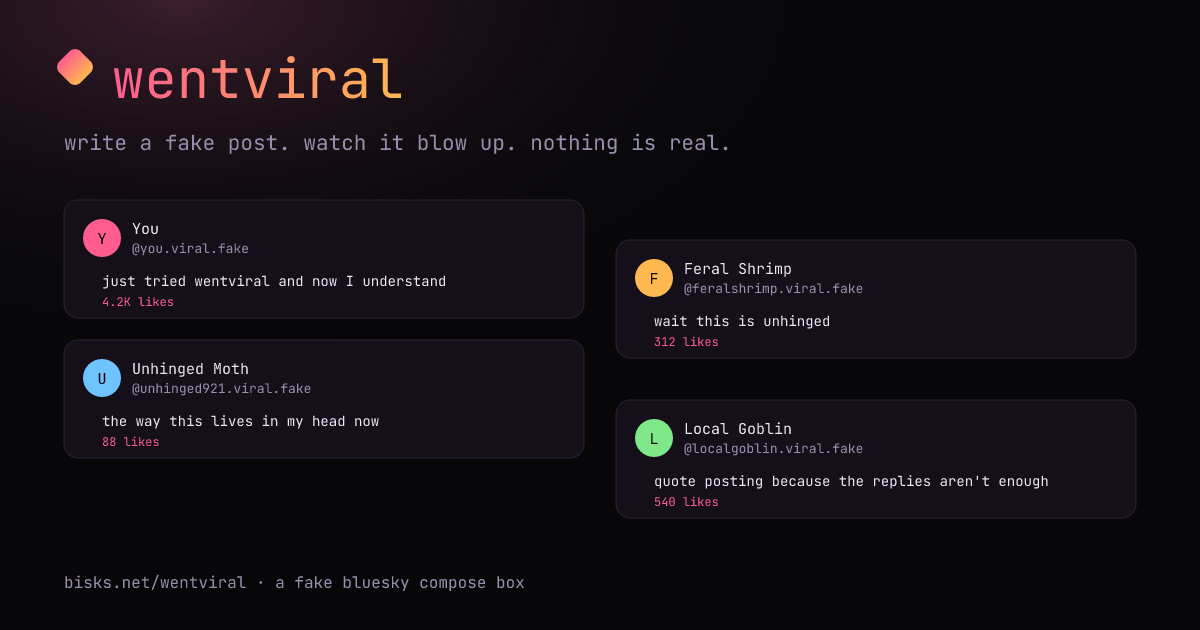
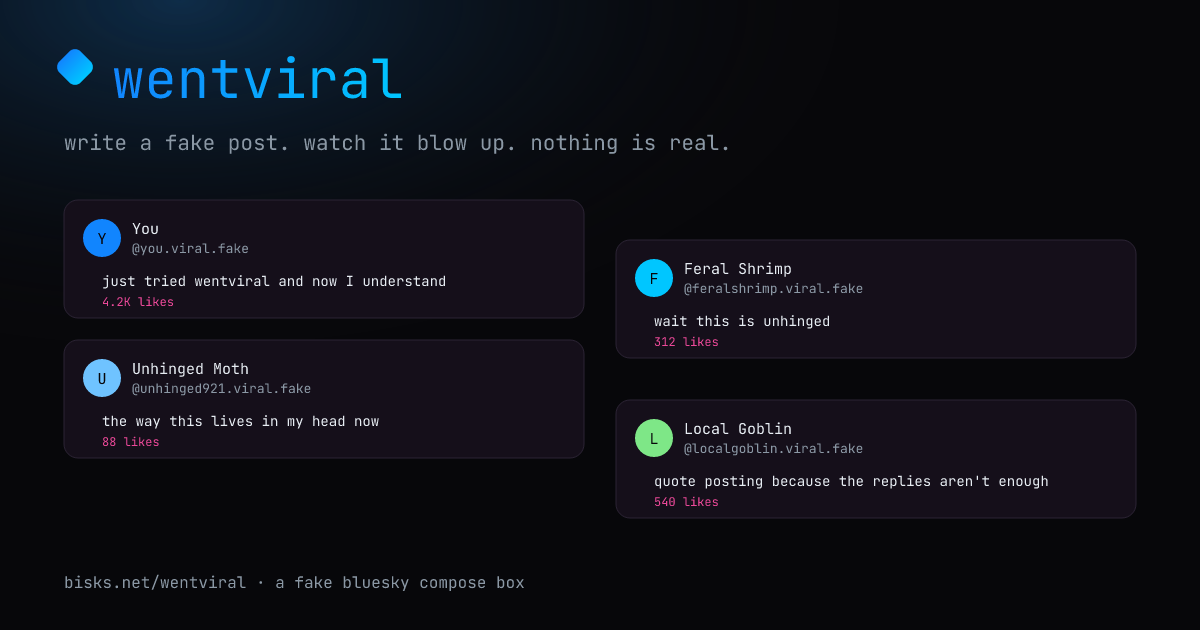
buildthis: wentviral (@fromthewestmeadow.com)

Changed region(s): [[0.0, 0.0, 0.3392, 0.1508], [0.5242, 0.3921, 0.5858, 0.4825], [0.0617, 0.3317, 0.1233, 0.4222]]

diff --git a/sites/wentviral/public/app.js b/sites/wentviral/public/app.js
@@ -50,14 +50,40 @@ function slugify(s) {
     .slice(0, 20);
   return slug || "you";
 }
-let toastTimer = null;
-function toast(msg, cls) {
+// A single toast element, but a queue behind it — notification toasts can
+// arrive in a burst (several replies crossing in the same watcher tick) and
+// should surface one at a time like a real push-notification tray, not
+// stomp on each other mid-animation.
+let toastQueue = [];
+let toastActive = false;
+let toastHideTimer = null;
+
+function hideToastNow() {
+  const t = document.getElementById("toast");
+  if (t) { t.classList.remove("show"); t.onclick = null; }
+}
+function processToastQueue() {
+  if (toastActive || !toastQueue.length) return;
   const t = document.getElementById("toast");
   if (!t) return;
-  t.textContent = msg;
-  t.className = "toast show" + (cls ? " " + cls : "");
-  clearTimeout(toastTimer);
-  toastTimer = setTimeout(() => t.classList.remove("show"), 2200);
+  toastActive = true;
+  const item = toastQueue.shift();
+  t.innerHTML = item.html;
+  t.className = "toast show" + (item.cls ? " " + item.cls : "") + (item.onClick ? " clickable" : "");
+  t.onclick = item.onClick ? () => { item.onClick(); hideToastNow(); } : null;
+  clearTimeout(toastHideTimer);
+  toastHideTimer = setTimeout(() => {
+    hideToastNow();
+    setTimeout(() => { toastActive = false; processToastQueue(); }, 220);
+  }, item.duration);
+}
+function toast(msg, cls) {
+  toastQueue.push({ html: esc(msg), cls, duration: 2200 });
+  processToastQueue();
+}
+function notifToast(html, onClick) {
+  toastQueue.push({ html, cls: "notif-toast", onClick, duration: 4200 });
+  processToastQueue();
 }
 
 // ---------- seeded PRNG ----------
@@ -261,20 +287,35 @@ function buildSim(payload) {
     quotes: Math.round(randInt(rng, 20, 220) * mult),
     replies: Math.round(randInt(rng, 30, 420) * mult),
   };
-  const tau = { likes: 50, reposts: 110, quotes: 170, replies: 90 };
+  // Slower, human-paced tau (seconds) — a post takes real minutes to feel
+  // "viral", not under a minute. Kept in sync with the mirrored copy in
+  // src/index.ts (used only for OG preview stamping).
+  const tau = { likes: 240, reposts: 420, quotes: 600, replies: 300 };
 
-  function genEvents(n, evTau, cap) {
+  // Individual reply/quote cards still cluster near t=0 under a raw
+  // exponential draw (that's where the density is highest) — enforce a
+  // minimum human-feeling gap between consecutive reveals so they trickle
+  // in one at a time instead of dumping in the same 2s update tick.
+  function genEvents(n, evTau, cap, minGap, gapJitter) {
     const count = Math.min(n, cap);
-    const events = [];
+    const raw = [];
     for (let i = 0; i < count; i++) {
       const t = -evTau * Math.log(1 - rng() * 0.995);
-      events.push(t);
+      raw.push(t);
     }
-    events.sort((a, b) => a - b);
+    raw.sort((a, b) => a - b);
+    const events = [];
+    let prev = -Infinity;
+    for (const t of raw) {
+      const spaced = Math.max(t, prev + minGap + rng() * gapJitter);
+      events.push(spaced);
+      prev = spaced;
+    }
+    if (events.length) events[0] = Math.max(events[0], randInt(rng, 4, 10));
     return events;
   }
-  const replyTimes = genEvents(targets.replies, 45, 50);
-  const quoteTimes = genEvents(targets.quotes, 90, 20);
+  const replyTimes = genEvents(targets.replies, 220, 60, 4, 9);
+  const quoteTimes = genEvents(targets.quotes, 450, 24, 20, 40);
 
   const replies = replyTimes.map((t) => {
     const persona = genPersona(rng);
@@ -420,6 +461,61 @@ function unreadNotifCount() {
     else break;
   }
   return count;
+}
+
+// ---------- live toast notifications ----------
+// Site-wide, independent of which view is open — same derived-notifs feed
+// as above, just watched on a timer and surfaced as a toast the moment an
+// event's timestamp crosses "now", like a real push notification. The
+// baseline is a wall-clock cursor (not a set of seen ids): everything with
+// abs <= baseline has already been toasted-or-skipped, so a tick only ever
+// looks at the sliver of new time that just elapsed.
+
+const NOTIF_TOAST_KEY = "wentviral.notifs.toastedThrough";
+function getToastBaseline() {
+  const raw = localStorage.getItem(NOTIF_TOAST_KEY);
+  return raw ? Number(raw) || 0 : null;
+}
+function setToastBaseline(sec) {
+  try { localStorage.setItem(NOTIF_TOAST_KEY, String(sec)); } catch (_) {}
+}
+function notifToastHtml(n) {
+  if (n.type === "reply") return `💬 <b>${esc(n.persona.name)}</b> replied to your post`;
+  if (n.type === "quote") return `🔁 <b>${esc(n.persona.name)}</b> quoted your post`;
+  if (n.type === "milestone-like") return `❤ Your post crossed <b>${fmtCount(n.n)}</b> likes`;
+  if (n.type === "milestone-repost") return `🔁 Your post crossed <b>${fmtCount(n.n)}</b> reposts`;
+  return "";
+}
+
+let notifWatcherStarted = false;
+function startNotifWatcher() {
+  if (notifWatcherStarted) return;
+  notifWatcherStarted = true;
+  let baseline = getToastBaseline();
+  if (baseline === null) {
+    // First time this browser has ever had this feature — don't dump the
+    // whole backlog as toasts, just start watching from now.
+    baseline = nowSec();
+    setToastBaseline(baseline);
+  }
+  setInterval(() => {
+    if (!getHistory().length) return;
+    const now = nowSec();
+    const fresh = getAllNotifs()
+      .filter((n) => n.abs > baseline && n.abs <= now)
+      .sort((a, b) => a.abs - b.abs);
+    baseline = now;
+    setToastBaseline(baseline);
+    if (!fresh.length) return;
+    const SHOW_CAP = 4;
+    fresh.slice(0, SHOW_CAP).forEach((n) => {
+      notifToast(notifToastHtml(n), () => { location.href = MOUNT + "/p/" + n.code; });
+    });
+    if (fresh.length > SHOW_CAP) {
+      notifToast(`+${fresh.length - SHOW_CAP} more notifications`);
+    }
+    renderNav();
+  }, 4000);
 }
 
 function notifLine(n) {
@@ -899,3 +995,4 @@ function route() {
 }
 
 route();
+startNotifWatcher();

diff --git a/sites/wentviral/public/style.css b/sites/wentviral/public/style.css
@@ -3,15 +3,15 @@
   --bg-mid: #120e17;
   --bg-hover: #1c1523;
   --border: #2a2233;
-  --text: #ece7f5;
-  --text-dim: #9a8eae;
-  --text-dimmer: #6b6080;
-  --accent: #ff5d8f;
-  --accent2: #ffb84f;
-  --accent-dim: #3a1d2c;
-  --like: #ff5d8f;
-  --repost: #7ee787;
-  --quote: #6fc3ff;
+  --text: #e7edf3;
+  --text-dim: #8b98a5;
+  --text-dimmer: #5b6773;
+  --accent: #1185fe;
+  --accent2: #00c6ff;
+  --accent-dim: #0d2b47;
+  --like: #ec4899;
+  --repost: #00ba7c;
+  --quote: #1185fe;
   --danger: #ff3860;
   --radius: 14px;
   --maxw: 1250px;
@@ -83,7 +83,7 @@ textarea { font-family: inherit; }
 .nav-item .ic { position: relative; width: 24px; text-align: center; font-size: 20px; }
 .nav-badge {
   position: absolute; top: -6px; right: -10px; min-width: 16px; height: 16px; padding: 0 4px;
-  border-radius: 999px; background: var(--accent); color: #1a0a10; font-size: 10px; font-weight: 800;
+  border-radius: 999px; background: var(--accent); color: #ffffff; font-size: 10px; font-weight: 800;
   line-height: 16px; text-align: center; box-shadow: 0 0 0 2px var(--bg);
 }
 .nav-cta {
@@ -91,7 +91,7 @@ textarea { font-family: inherit; }
   padding: 12px;
   border-radius: 999px;
   background: linear-gradient(90deg, var(--accent), var(--accent2));
-  color: #1a0a10;
+  color: #ffffff;
   text-align: center;
   font-weight: 800;
   font-size: 15px;
@@ -111,7 +111,7 @@ textarea { font-family: inherit; }
   padding: 9px 12px;
   border-radius: 12px;
   background: var(--accent-dim);
-  border: 1px solid #542c3c;
+  border: 1px solid #123a5c;
   color: var(--text-dim);
   font-size: 12px;
   line-height: 1.5;
@@ -185,7 +185,7 @@ textarea { font-family: inherit; }
   padding: 9px 20px;
   border-radius: 999px;
   background: linear-gradient(90deg, var(--accent), var(--accent2));
-  color: #1a0a10;
+  color: #ffffff;
   font-weight: 800;
   font-size: 14.5px;
   cursor: pointer;
@@ -269,7 +269,7 @@ textarea { font-family: inherit; }
 .share-bar { display: flex; gap: 10px; flex-wrap: wrap; padding: 14px 16px; border-bottom: 1px solid var(--border); }
 .pill-btn { display: inline-flex; align-items: center; gap: 6px; padding: 8px 16px; border-radius: 999px; border: 1px solid var(--border); font-weight: 700; font-size: 13.5px; cursor: pointer; background: transparent; color: var(--text); }
 .pill-btn:hover { background: var(--bg-hover); }
-.pill-btn.primary { background: linear-gradient(90deg, var(--accent), var(--accent2)); color: #1a0a10; border-color: transparent; }
+.pill-btn.primary { background: linear-gradient(90deg, var(--accent), var(--accent2)); color: #ffffff; border-color: transparent; }
 .pill-btn.primary:hover { filter: brightness(1.08); }
 
 /* ---------- right column ---------- */
@@ -289,6 +289,10 @@ textarea { font-family: inherit; }
   box-shadow: 0 10px 30px rgba(0, 0, 0, .3); max-width: 90vw; text-align: center;
 }
 .toast.show { opacity: 1; transform: translate(-50%, 0); }
+.toast b { color: var(--accent2); }
+.toast.clickable { cursor: pointer; }
+.toast.clickable:hover { filter: brightness(1.1); }
+.toast.notif-toast { background: var(--bg-mid); color: var(--text); border: 1px solid var(--border); box-shadow: 0 10px 30px rgba(0, 0, 0, .5); }
 
 /* ---------- misc ---------- */
 .center-msg { padding: 60px 24px; text-align: center; color: var(--text-dim); }

diff --git a/sites/wentviral/src/index.ts b/sites/wentviral/src/index.ts
@@ -136,10 +136,11 @@ async function renderPost(env: Env, request: Request, code: string): Promise<Res
     replies: Math.round(randInt(rng, 30, 420) * mult),
   };
   const t = Math.max(0, Math.floor((Date.now() - payload.c) / 1000));
-  const likes = countAt(targets.likes, 50, t);
-  const reposts = countAt(targets.reposts, 110, t);
-  const quotes = countAt(targets.quotes, 170, t);
-  const replies = countAt(targets.replies, 90, t);
+  // Mirrors the tau in public/app.js buildSim() — keep in sync.
+  const likes = countAt(targets.likes, 240, t);
+  const reposts = countAt(targets.reposts, 420, t);
+  const quotes = countAt(targets.quotes, 600, t);
+  const replies = countAt(targets.replies, 300, t);
 
   const name = payload.n.trim() || "You";
   const handle = slugify(name) + FAKE_TLD;
